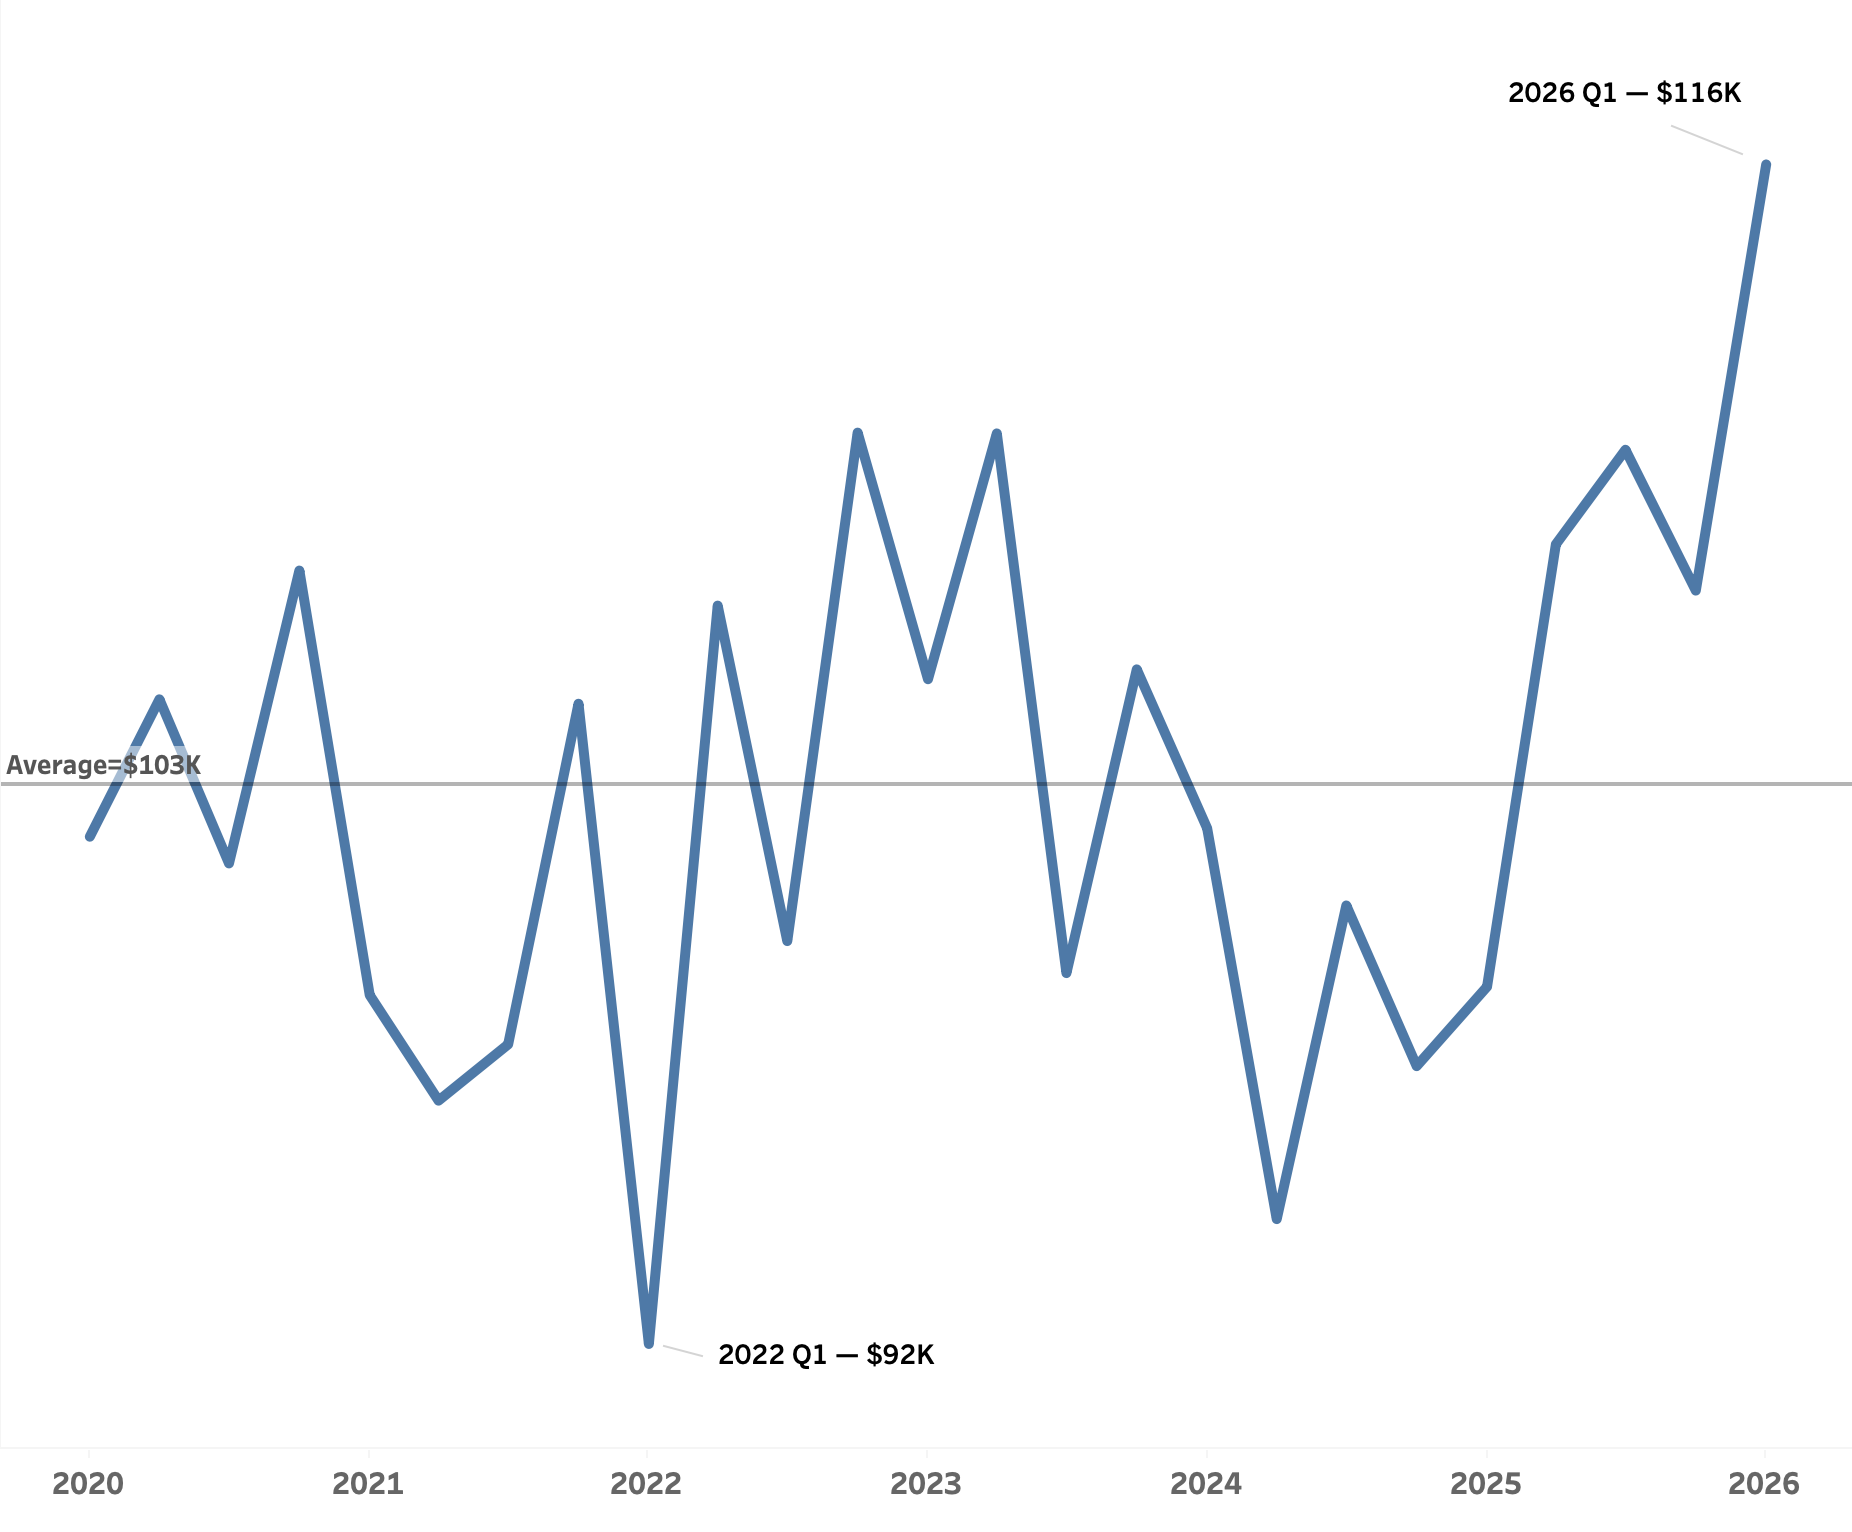
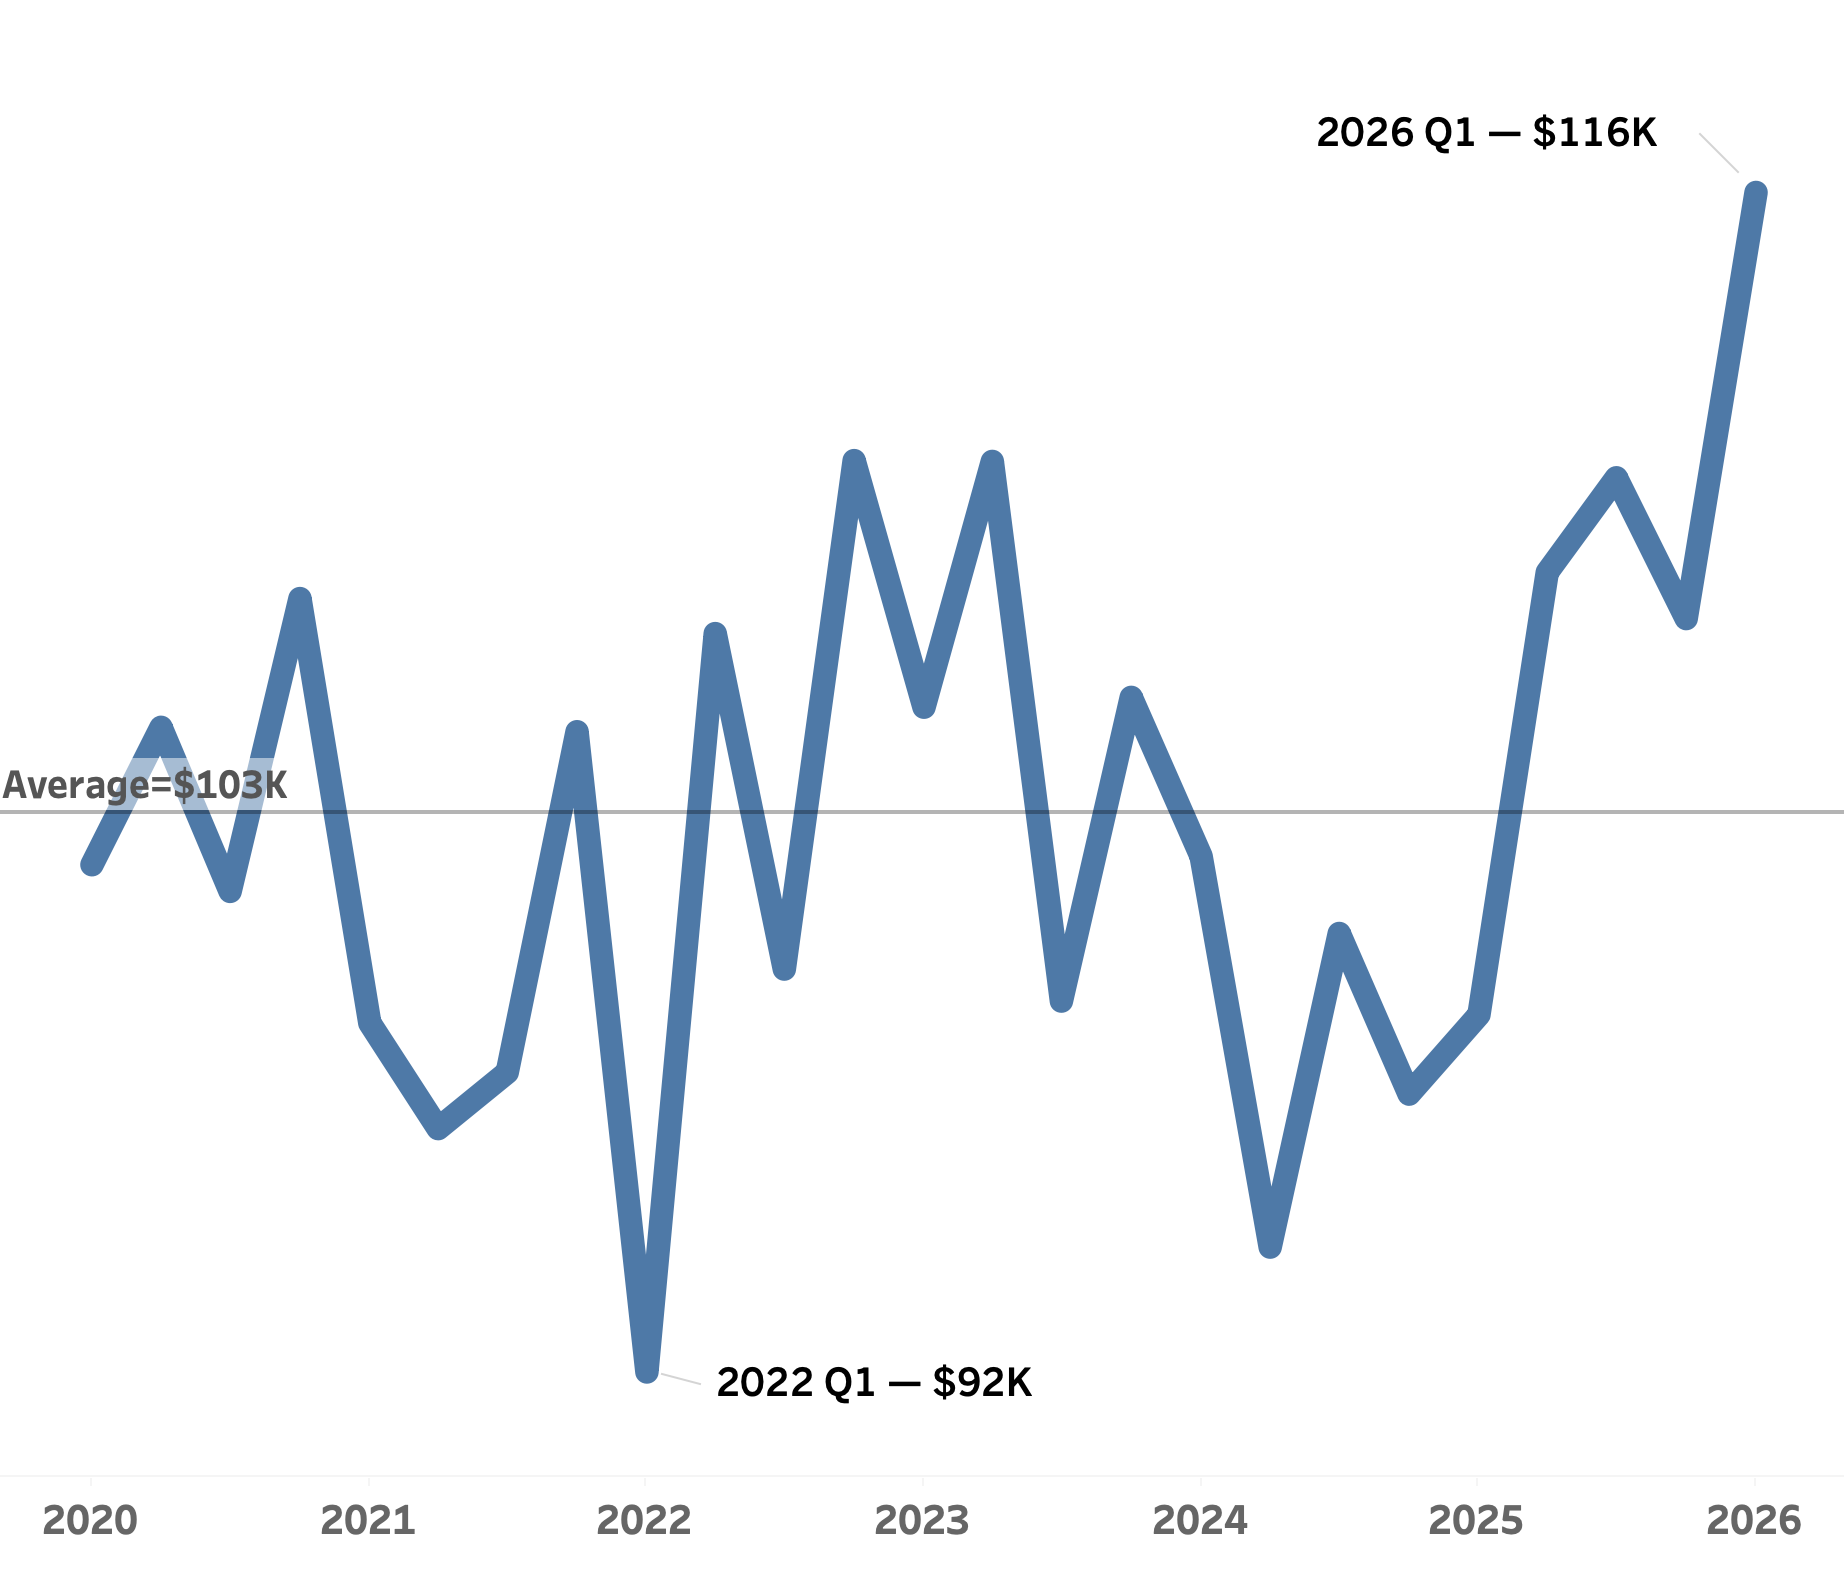
Update sales trend and insight panel layout

diff --git a/README.md b/README.md
@@ -113,7 +113,7 @@
 <table align="center">
   <tr>
     <td width="900" align="center">
-      <img width="620" alt="NexaCart quarterly delivered revenue trend from 2020 to Q1 2026" src="reports/figures/quarterly-delivered-revenue-trend.png">
+      <img width="560" alt="NexaCart quarterly delivered revenue trend from 2020 to Q1 2026" src="reports/figures/quarterly-delivered-revenue-trend.png">
     </td>
   </tr>
 </table>
@@ -157,11 +157,22 @@
 
 <table align="center">
   <tr>
-    <td width="450" valign="top">
+    <td width="450" align="center" valign="top">
       <h2 align="center">Average Order Value.</h2>
-      <div align="center">
-        <img width="400" alt="NexaCart quarterly average order value trend from 2020 to Q1 2026" src="reports/figures/quarterly-average-order-value-trend.png">
-      </div>
+      <img width="400" alt="NexaCart quarterly average order value trend from 2020 to Q1 2026" src="reports/figures/quarterly-average-order-value-trend.png">
+    </td>
+    <td width="450" align="center" valign="top">
+      <h2 align="center">Order Volume</h2>
+      <img width="400" alt="NexaCart quarterly delivered order volume trend from 2020 to Q1 2026" src="reports/figures/quarterly-delivered-orders-trend.png">
+    </td>
+  </tr>
+</table>
+
+<br>
+
+<table align="center">
+  <tr>
+    <td width="450" valign="top">
       <ol>
         <li>
           <strong>Sharp AOV surge in 2022 and Plummeted in 2024</strong>
@@ -190,10 +201,6 @@
       </ol>
     </td>
     <td width="450" valign="top">
-      <h2 align="center">Order Volume</h2>
-      <div align="center">
-        <img width="400" alt="NexaCart quarterly delivered order volume trend from 2020 to Q1 2026" src="reports/figures/quarterly-delivered-orders-trend.png">
-      </div>
       <ol>
         <li>
           <strong>AOV Impacts Revenue more than Order Volume</strong>
